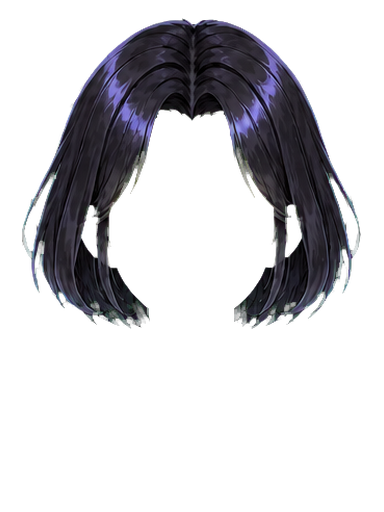
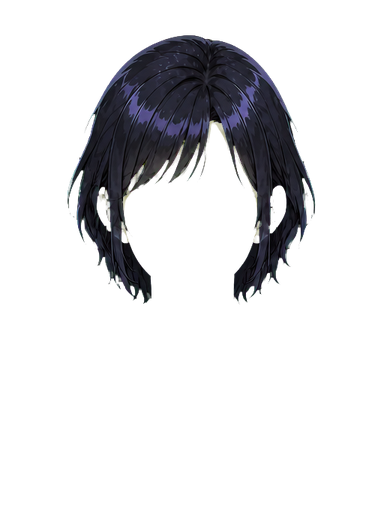
Restore visually validated portrait assets

Changed region(s): [[0.0312, 0.0312, 0.9375, 0.6562]]

diff --git a/src/portrait-v2.js b/src/portrait-v2.js
@@ -416,6 +416,16 @@ export function drawIllustratedPortrait(a) {
 }
 
 const FACE_ASSET = ['round', 'oval', 'square', 'sharp', 'chubby', 'cat'];
+const EYE_ASSET = {
+  round: 'round', almond: 'almond', sharp: 'sharp', up: 'sharp', droop: 'droop', big: 'round',
+  sleepy: 'sleepy', slit: 'sharp', glow: 'round', dull: 'sleepy', star: 'round', moon: 'sleepy',
+  gem: 'round', fox: 'fox', puppy: 'droop', mono: 'almond', heart: 'round', wink: 'almond',
+};
+const HAIR_ASSET = [
+  'bob', 'bob', 'bob', 'long', 'high-pony', 'twin', 'wavy', 'bob', 'long', 'high-pony', 'wavy',
+  'wavy', 'bob', 'braid', 'bob', 'high-pony', 'wavy', 'high-pony', 'braid', 'bob', 'wavy', 'wavy',
+  'braid', 'high-pony', 'long', 'bob', 'twin', 'high-pony', 'twin', 'wavy', 'high-pony', 'twin', 'braid', 'wavy',
+];
 
 const layerImages = new Map();
 const tintedLayers = new Map();
@@ -474,22 +484,20 @@ function drawLayeredPortrait(a) {
   if (typeof document === 'undefined') return null;
   const faceId = FACE_ASSET[safeIndex(a.face, FACE_ASSET.length)];
   const eyeId = EYES[safeIndex(a.eye, EYES.length)]?.id || 'almond';
-  const hairId = LENGTHS[safeIndex(a.hairLen, LENGTHS.length)]?.id || 'short';
-  const fringeId = FRINGES[safeIndex(a.fringe, FRINGES.length)]?.id || 'part';
+  const eyeAsset = EYE_ASSET[eyeId] || 'almond';
+  const hairAsset = HAIR_ASSET[safeIndex(a.hairLen, HAIR_ASSET.length)] || 'bob';
   const face = requestLayer(`assets/portrait-v2/faces/${faceId}.png`);
-  const eyes = requestLayer(`assets/portrait-v2/eyes/${eyeId}.png`);
-  const hair = requestLayer(`assets/portrait-v2/hair/${hairId}.png`);
-  const fringe = hairId === 'bald' ? null : requestLayer(`assets/portrait-v2/fringes/${fringeId}.png`);
-  if (!face || !eyes || !hair || (hairId !== 'bald' && !fringe)) return null;
+  const eyes = requestLayer(`assets/portrait-v2/eyes/${eyeAsset}.png`);
+  const hair = requestLayer(`assets/portrait-v2/hair/${hairAsset}.png`);
+  if (!face || !eyes || !hair) return null;
   const pal = palette(a), canvas = document.createElement('canvas'); canvas.width = W; canvas.height = H;
   const ctx = canvas.getContext('2d');
   if (!ctx) return null;
   drawBackdrop(ctx, pal);
   drawBody(ctx, a, pal);
-  ctx.drawImage(tintLayer(hair, 'hair', pal.hair), 0, 0);
   ctx.drawImage(tintLayer(face, 'skin', pal.skin), 0, 0);
   ctx.drawImage(tintLayer(eyes, 'iris', pal.iris), 0, 0);
-  if (fringe) ctx.drawImage(tintLayer(fringe, 'hair', pal.hair), 0, 0);
+  ctx.drawImage(tintLayer(hair, 'hair', pal.hair), 0, 0);
   drawRaceFront(ctx, safeIndex(a.race, 18), pal);
   drawAccessory(ctx, a, pal);
   drawFinish(ctx);

diff --git a/docs/portrait-v2-art-spec.md b/docs/portrait-v2-art-spec.md
@@ -48,8 +48,8 @@
 
 ## 首批实装状态
 
-- 已接入 6 套脸型底图、18 套眼型、14 套前发和 34 套后发主体，全部使用 `384 × 512` 透明画布与统一锚点。
+- 当前运行时仅启用经过真实页面验收的 6 套脸型、6 套眼型和 6 套完整发型；全部使用 `384 × 512` 透明画布与统一锚点。
 - 脸型、虹膜、发型分别支持皮肤色、眼睛色、头发色的运行时独立换色，并保留原图明暗和高光。
-- `Appearance.eye`、`Appearance.fringe` 与 `Appearance.hairLen` 直接读取同名素材，不再复用少量母版；旧存档编号保持稳定。
-- 合成顺序固定为后发主体 → 脸型 → 眼睛 → 前发；禁止把发型主体作为前景覆盖脸部。
+- 现有外观编号通过安全映射选择已验收素材，旧存档编号保持稳定。
+- 34 套扩展发型和 14 套前发因头盖、脸窗和层序未使用同一模板，已停止参与运行时合成；必须逐套按统一裸头模板返工并完成组合矩阵验收后才能重新启用。
 - 全量头部部件继续作为 `?portrait=v2` 实验预览使用；待服装、种族特征和配饰完成同画风升级并通过全局界面验收后，再切换为正式默认立绘。
